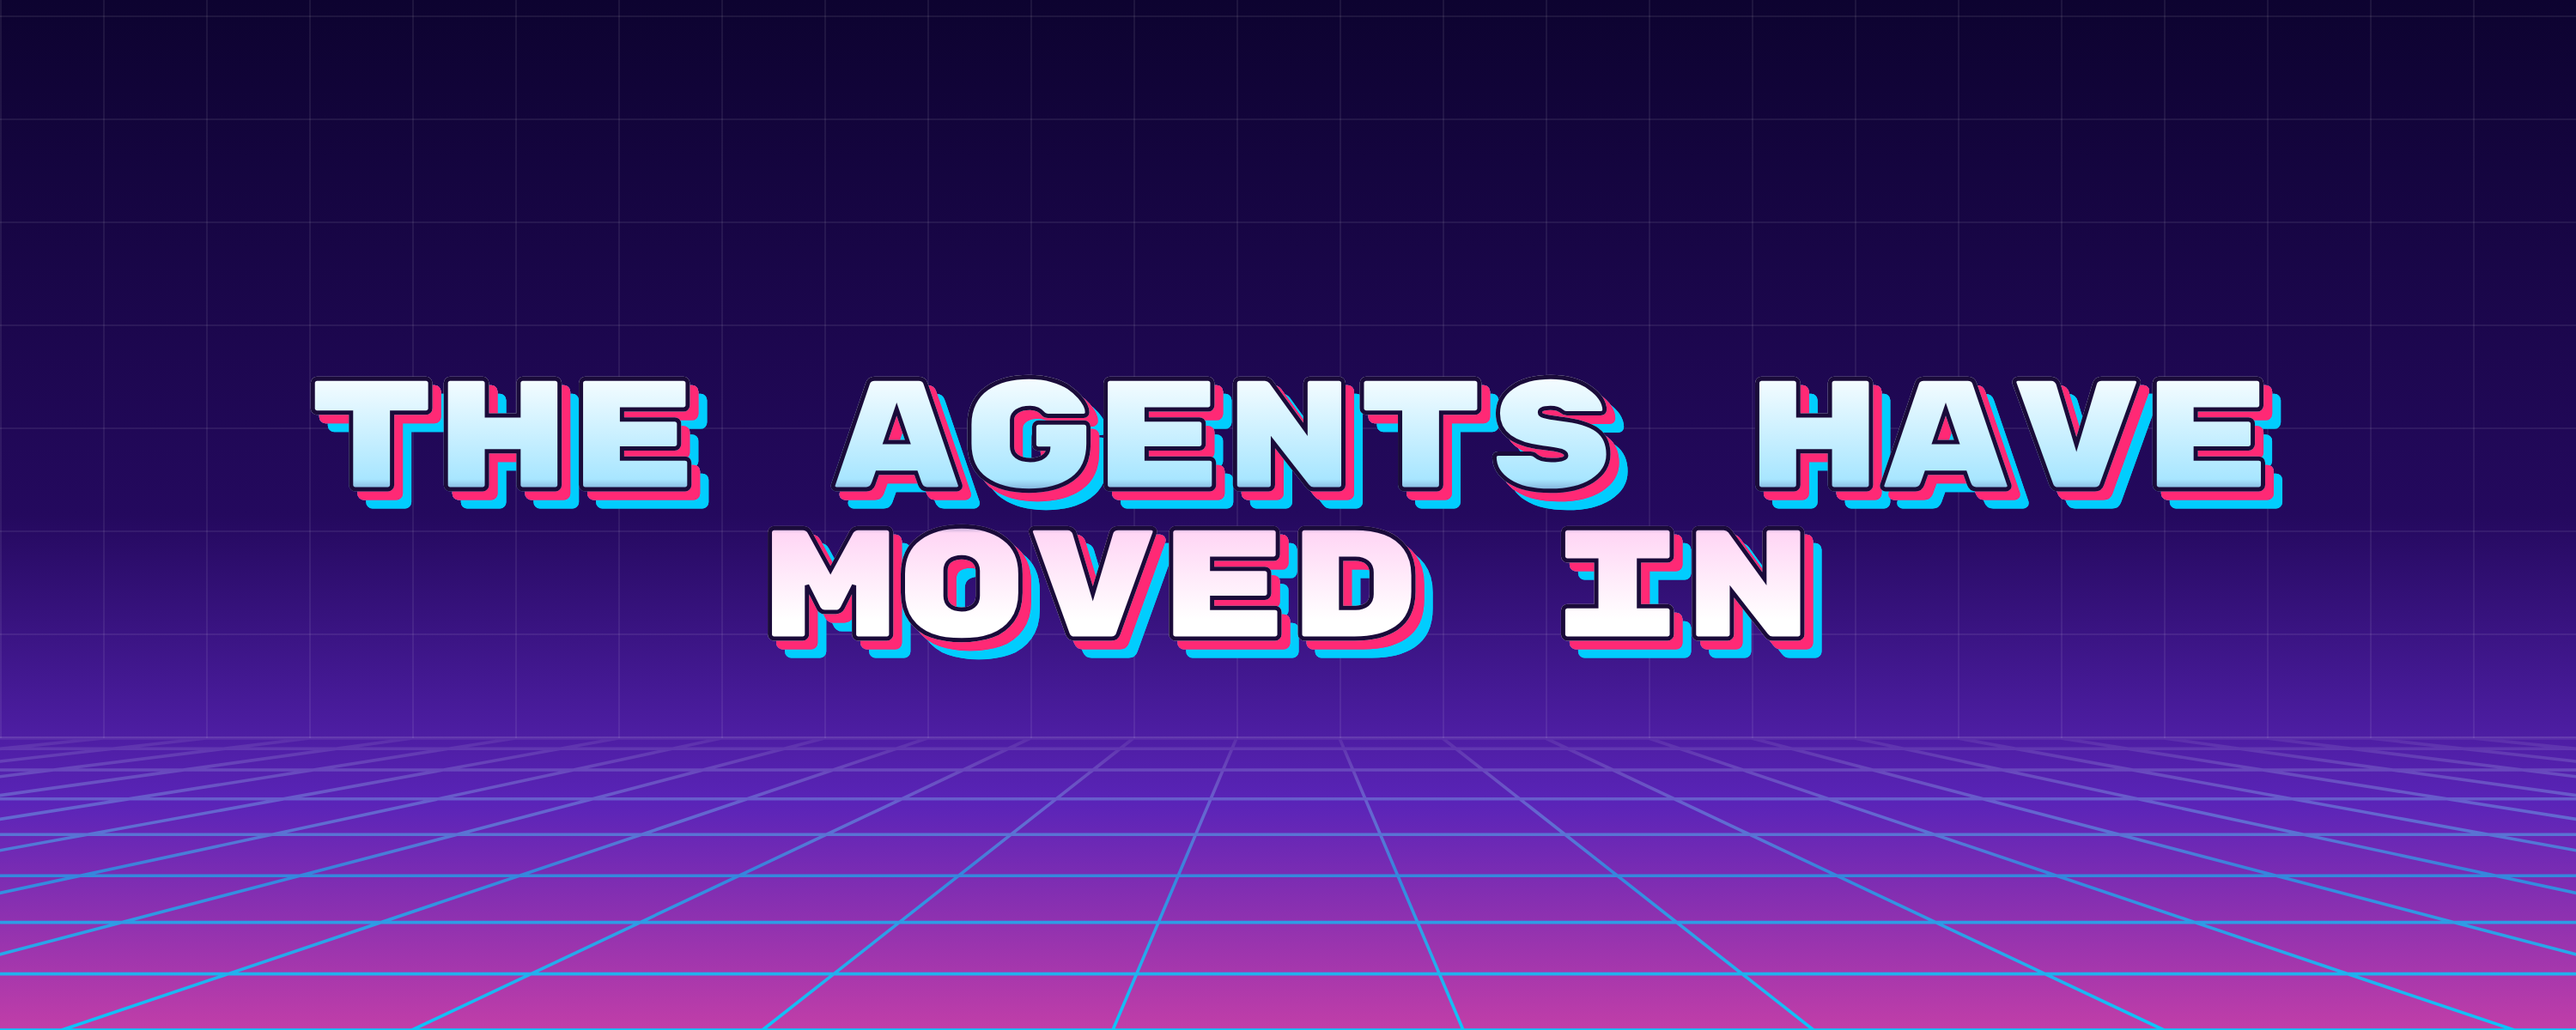
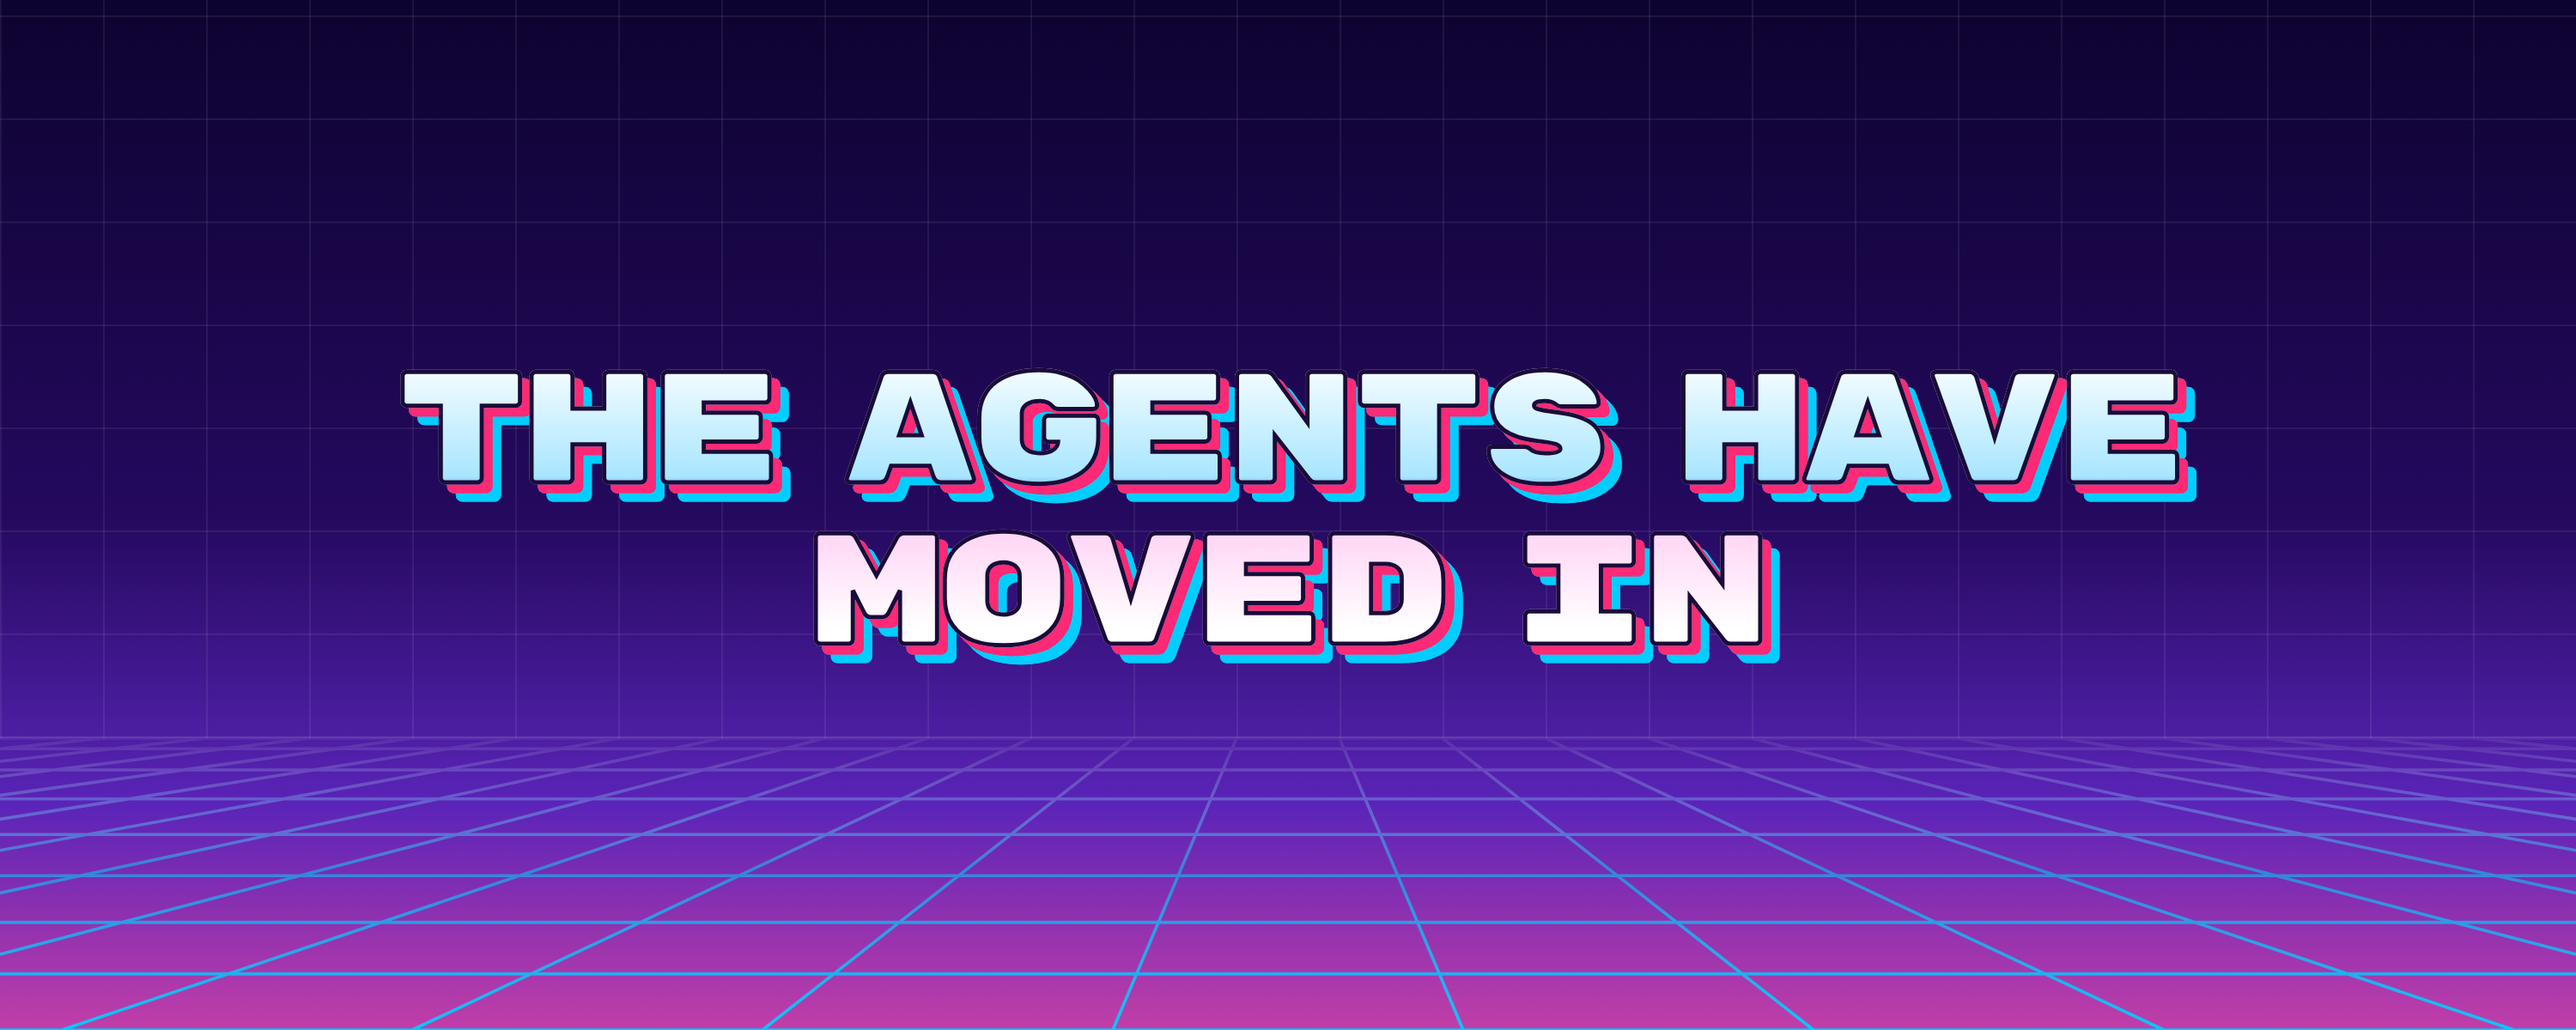
Tighten spacing on the article cover title
Claude-Session: https://claude.ai/code/session_01N6fXVuGCPWEXPEyrtfC27T

Changed region(s): [[0.093, 0.3392, 0.899, 0.6475]]

diff --git a/design/article/article.html b/design/article/article.html
@@ -13,7 +13,7 @@
   .chrome { font: 400 110px/0.95 'Rubik Mono One'; letter-spacing: -.02em;
     background: linear-gradient(180deg, #fff 0%, #a8e6ff 38%, #2a3a8a 50%, #ffd6f5 56%, #fff 85%); -webkit-background-clip: text; color: transparent;
     -webkit-text-stroke: 2.5px #1a0b3a; filter: drop-shadow(5px 5px 0 #ff2975) drop-shadow(5px 5px 0 #01cdfe) drop-shadow(0 0 30px rgba(255,113,206,.5)); }
-  .chrome.flat { filter: drop-shadow(5px 5px 0 #ff2975) drop-shadow(5px 5px 0 #01cdfe); }
+  .chrome.flat { filter: drop-shadow(5px 5px 0 #ff2975) drop-shadow(5px 5px 0 #01cdfe); letter-spacing: -.045em; word-spacing: -.38em; line-height: 1.02; }
   .cover.img { background: linear-gradient(180deg, #0d0330 0%, #24095e 50%, #5a24b8 78%, #c13ea8 100%); }
   .sub { margin-top: 26px; font: 42px VT323; text-shadow: 2px 2px 0 #1a0838; }
   .h { font: 800 66px/1.05 Inter; letter-spacing: -.035em; }
